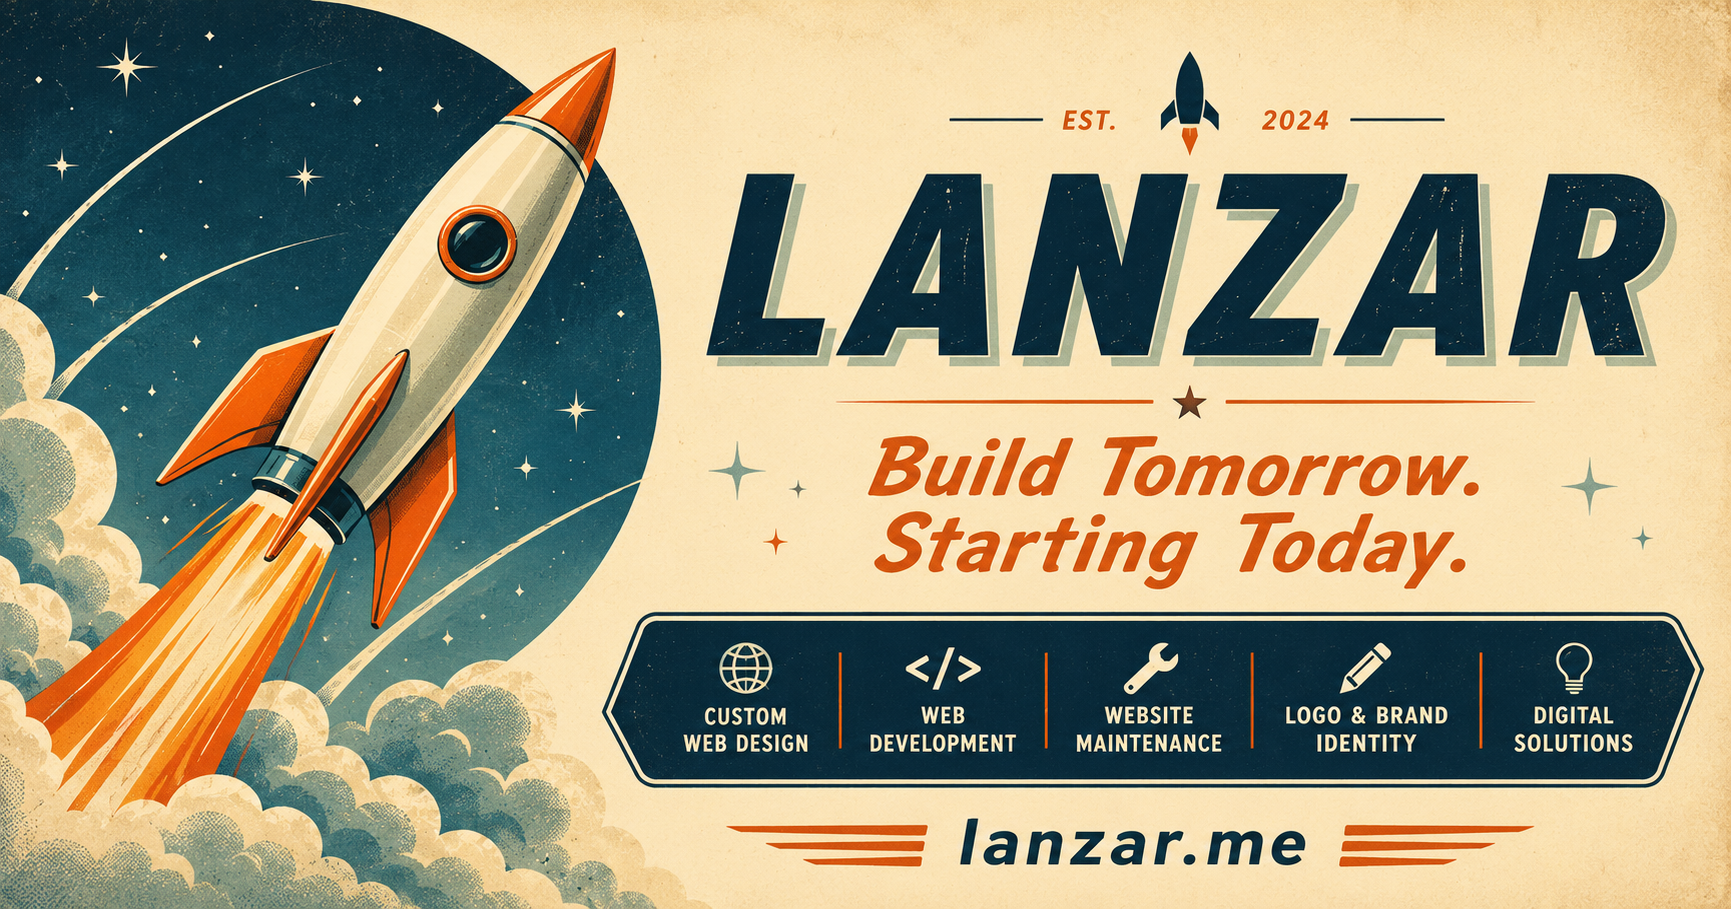
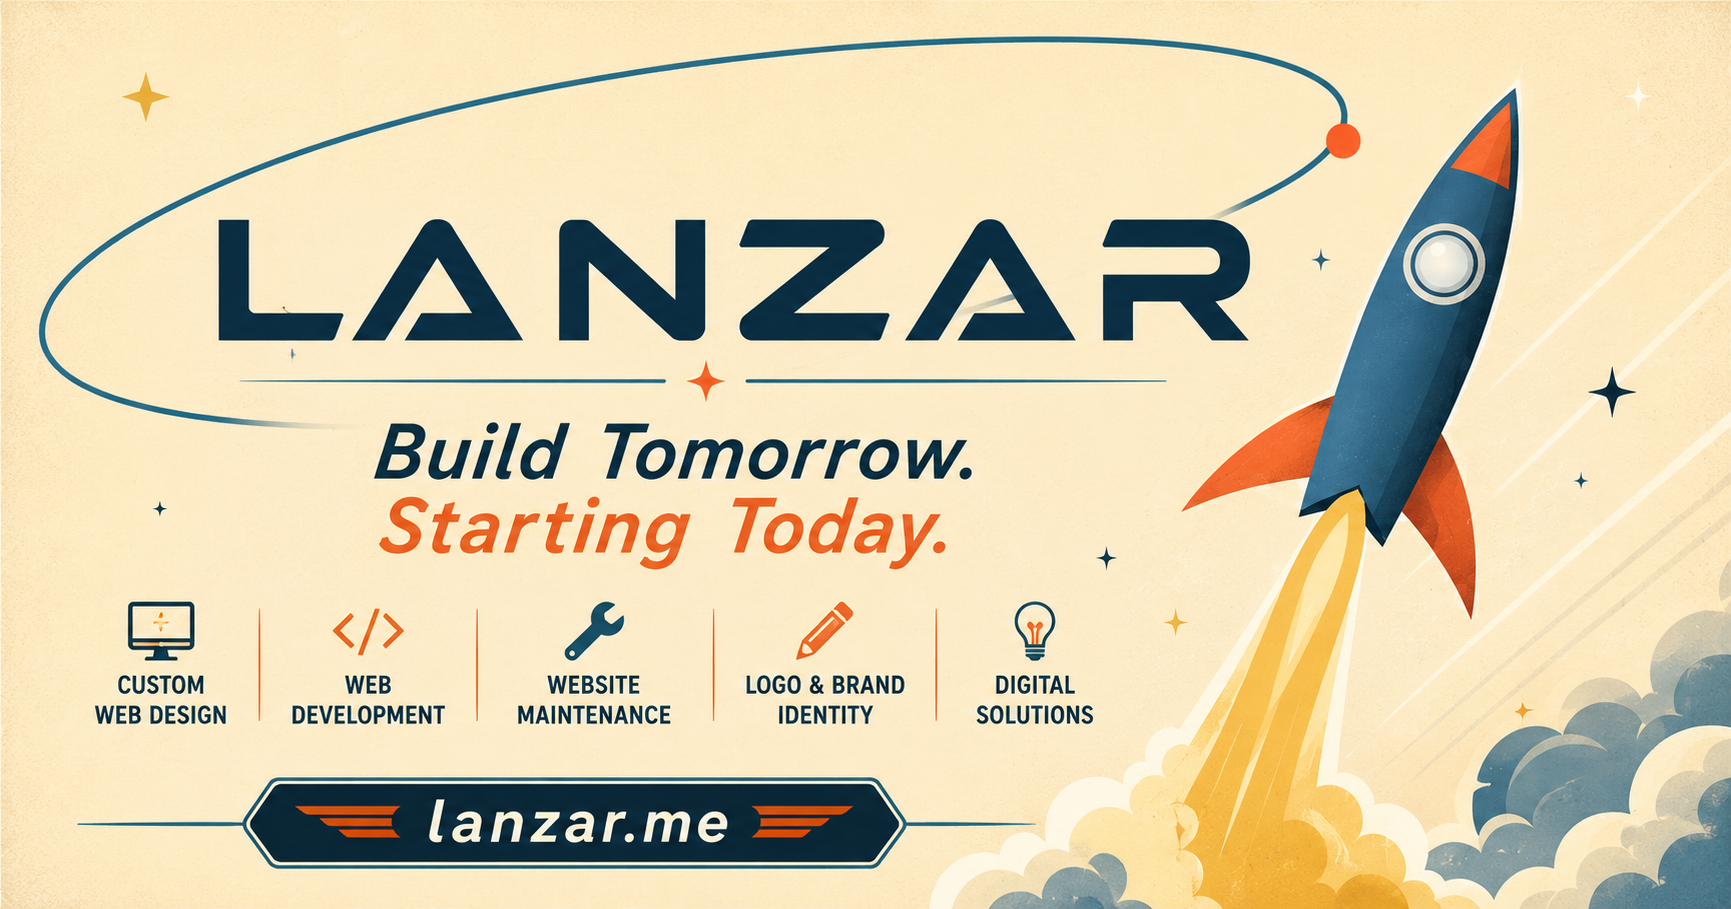
updated facebook card

diff --git a/index.html b/index.html
@@ -7,20 +7,20 @@
     <title>LANZAR | Custom Web Design & Development | Hudson, MA</title>
 
 	<!-- SEO -->
-	<meta name="description" content="Custom web design, website development, branding, and website maintenance based in Hudson, Massachusetts. Creative websites with personality built by LANZAR.">
+	<meta name="description" content="Custom web design, website development, branding, and maintenance from Hudson, MA. We build memorable websites with personality because your business deserves better than another cookie-cutter template.">
 	<meta name="theme-color" content="#F46B45">
 
-	<meta property="og:title" content="LANZAR | Custom Web Design">
-	<meta property="og:description" content="Creative websites with personality.">
-	<meta property="og:image" content="https://lanzar.me/assets/images/social-card.jpg">
-	<meta property="og:url" content="https://lanzar.me">
-	<meta property="og:type" content="website">
+	<meta property="og:image" content="https://lanzar.me/assets/images/social-card.png">
+	<meta property="og:image:width" content="1200">
+	<meta property="og:image:height" content="630">
+	<meta property="og:image:type" content="image/jpeg">
+	<meta property="og:image:alt" content="LANZAR - Custom Web Design & Development">
 	
 	<!-- Twitter/X -->
 	<meta name="twitter:card" content="summary_large_image">
 	<meta name="twitter:title" content="LANZAR"> 
 	<meta name="twitter:description" content="Creative websites with personality.">
-	<meta name="twitter:image" content="https://lanzar.me/assets/images/social-card.jpg">
+	<meta name="twitter:image" content="https://lanzar.me/assets/images/social-card.png">
    
 	<!-- Canonical -->
     <link rel="canonical" href="https://lanzar.me">
@@ -77,7 +77,7 @@
 	  "name": "LANZAR",
 	  "url": "https://lanzar.me",
 	  "logo": "https://lanzar.me/assets/logos/logo.svg",
-	  "image": "https://lanzar.me/assets/images/social-card.jpg",
+	  "image": "https://lanzar.me/assets/images/social-card.png",
 	  "description": "Custom web design, website development, branding, and digital solutions for businesses.",
 	  "email": "[email redacted]",
 	  "founder": {
@@ -235,13 +235,13 @@
                     I'm the father of two, husband to one, and someone who
                     genuinely loves building websites.
 
-                    <br />
+                    <br /><br />
 
                     For me, it's the perfect mix of everything I'm passionate
                     about—technology, creativity, psychology, economics, and
                     just enough art to keep things interesting.
 
-                    <br />
+                    <br /><br />
 
                     Most people see a website.
 
@@ -263,7 +263,7 @@
 
                     I build experiences.
 
-                    <br />
+                    <br /><br />
 
                     Every website I build raises the bar a little higher.
 
@@ -271,7 +271,7 @@
 
                     I guess that's the curse of loving what you do.
 
-                    <br />
+                    <br /><br />
 
                     I'm always trying to build a better website.
 